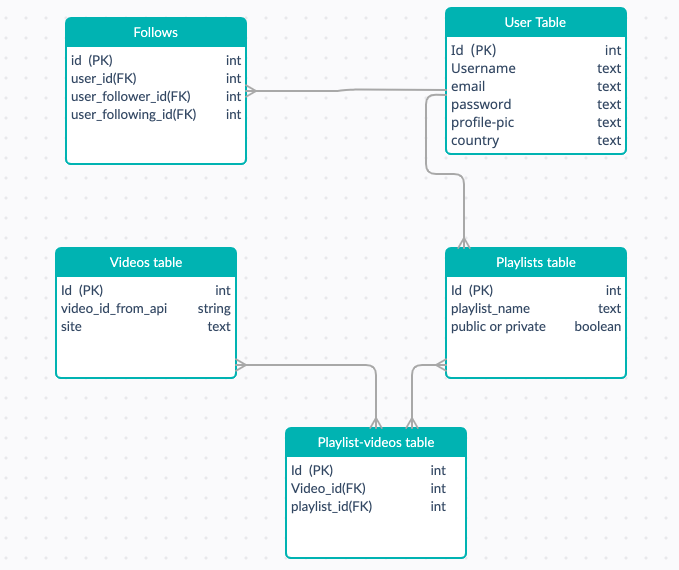
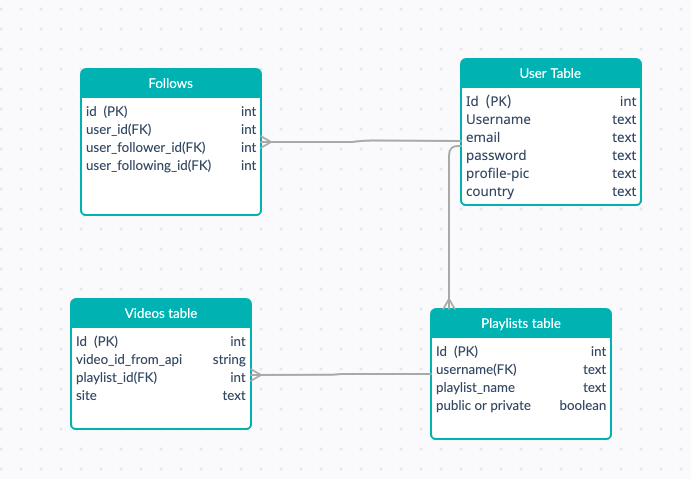
added project proposal

Changed region(s): [[0.0619, 0.0, 0.9278, 0.9353], [0.4021, 0.9645, 0.6804, 0.9937]]

diff --git a/ProjectProposal.md b/ProjectProposal.md
@@ -1,0 +1,49 @@
+
+    
+    My final project named Groove is a full stack app that uses Node/Express for the backend and React for the frontend and uses Postgresql to handle data. This project will evenly focus on both the front-end and the back-end. 
+     
+    Groove is a website mainly designed for music-lovers. The user can search for any of their favorite bands or albums or songs and create a playlist to save their favorite song videos. Though Groove mainly focuses on music-lovers, my app allows all users to access all kinds of videos and save it to their favorites. 
+
+    The app will be using the Youtube API for the search feature. Each video id is stored in the database for future access. 
+   
+    For Eg:
+    https://www.googleapis.com/youtube/v3/search
+
+    JSON respone:{
+     "kind": "youtube#searchResult",
+    "etag": etag,
+    "id": {
+        "kind": string,
+        "videoId": string,
+        "channelId": string,
+        "playlistId": string
+    },
+    "snippet": {
+        "publishedAt": datetime,
+        "channelId": string,
+        "title": string,
+        "description": string,
+        "thumbnails": {
+        (key): {
+            "url": string,
+            "width": unsigned integer,
+            "height": unsigned integer
+        }
+        },
+        "channelTitle": string,
+        "liveBroadcastContent": string
+    }
+    }
+
+    My database schema will have four tables namely users, playlists, videos and follows. The users table has the username as the primary key. The playlists table stores all user playlists with username as the foriegn key. The videos table stores the api_video id and uses playlist_id as the foreign key. The follows table uses username as foreign key from users table.
+
+    The only issue i see with using the API would be with embedding part. The rest of the data is easy-to work with for my project.
+
+    In order to secure the user-data, this app will be using b-crypt to help with the user authentication. B-crypt's hashing algorithm provides a very efficient hashing for the password which makes user authentication and hence the user data very secure.
+
+    My app will include the search functionality which helps users to access videos and save it to their own personal playlists.
+
+    Groove will have a home page which allows users to login or signup along with searching for videos. While searching the user gets a list of videos based on the serach criteria. Each video comes with a add to playlist button but the user will be allowed to add the video to a playlist only after logging into the account. Once Logged in the user will have four tabs namely profile, playlists, community and logout. The profile tab gives access to user profile details and allows user to edit his details. The playlists tab lists all the playlists that the user has saved in his account. He will be able to edit, delete or create new playlists from this tab. The community tab allows user to follow other users and view the users followers. 
+
+
+    The stretch feature for my app would be to access videos from different apis. For eg: from snaptube dailymotion and vimeo. 
